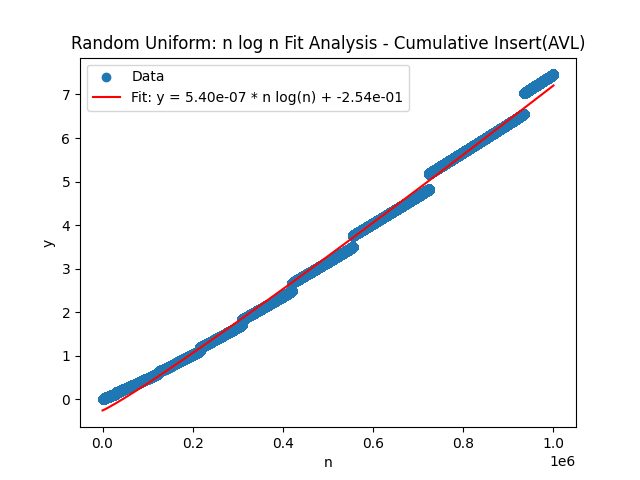
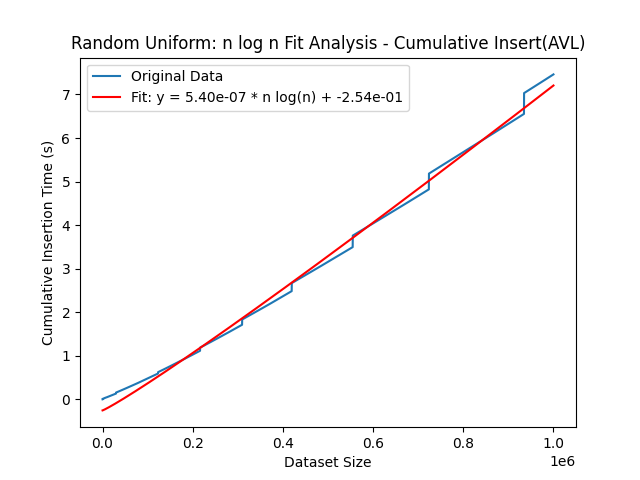
Improve plots

diff --git a/src/utils.py b/src/utils.py
@@ -310,10 +310,10 @@ class Helper:
 
                 # Plotting the data
                 plt.title(f"{distrib}: n log n Fit Analysis - Cumulative Insert({struc_key})")
-                plt.scatter(x, y, label='Data')
+                plt.plot(x, y, label='Original Data')
                 plt.plot(x, slope * n_log_n + intercept, color='red', label=f'Fit: y = {slope:.2e} * n log(n) + {intercept:.2e}')
-                plt.xlabel('n')
-                plt.ylabel('y')
+                plt.xlabel('Dataset Size')
+                plt.ylabel('Cumulative Insertion Time (s)')
                 plt.legend()
                 plt.show()
 

diff --git a/main.py b/main.py
@@ -62,6 +62,7 @@ def main():
     None
     """
     # Read the dataset from a JSON file (can be modified to use a different file)
+    # To run with 1M dataset use: data/dataset1M.json
     dataset = Helper.read_json('data/dataset10.json')  # Change file name to test with another dataset
     
     # Initialize the Benchmark object with the loaded dataset
